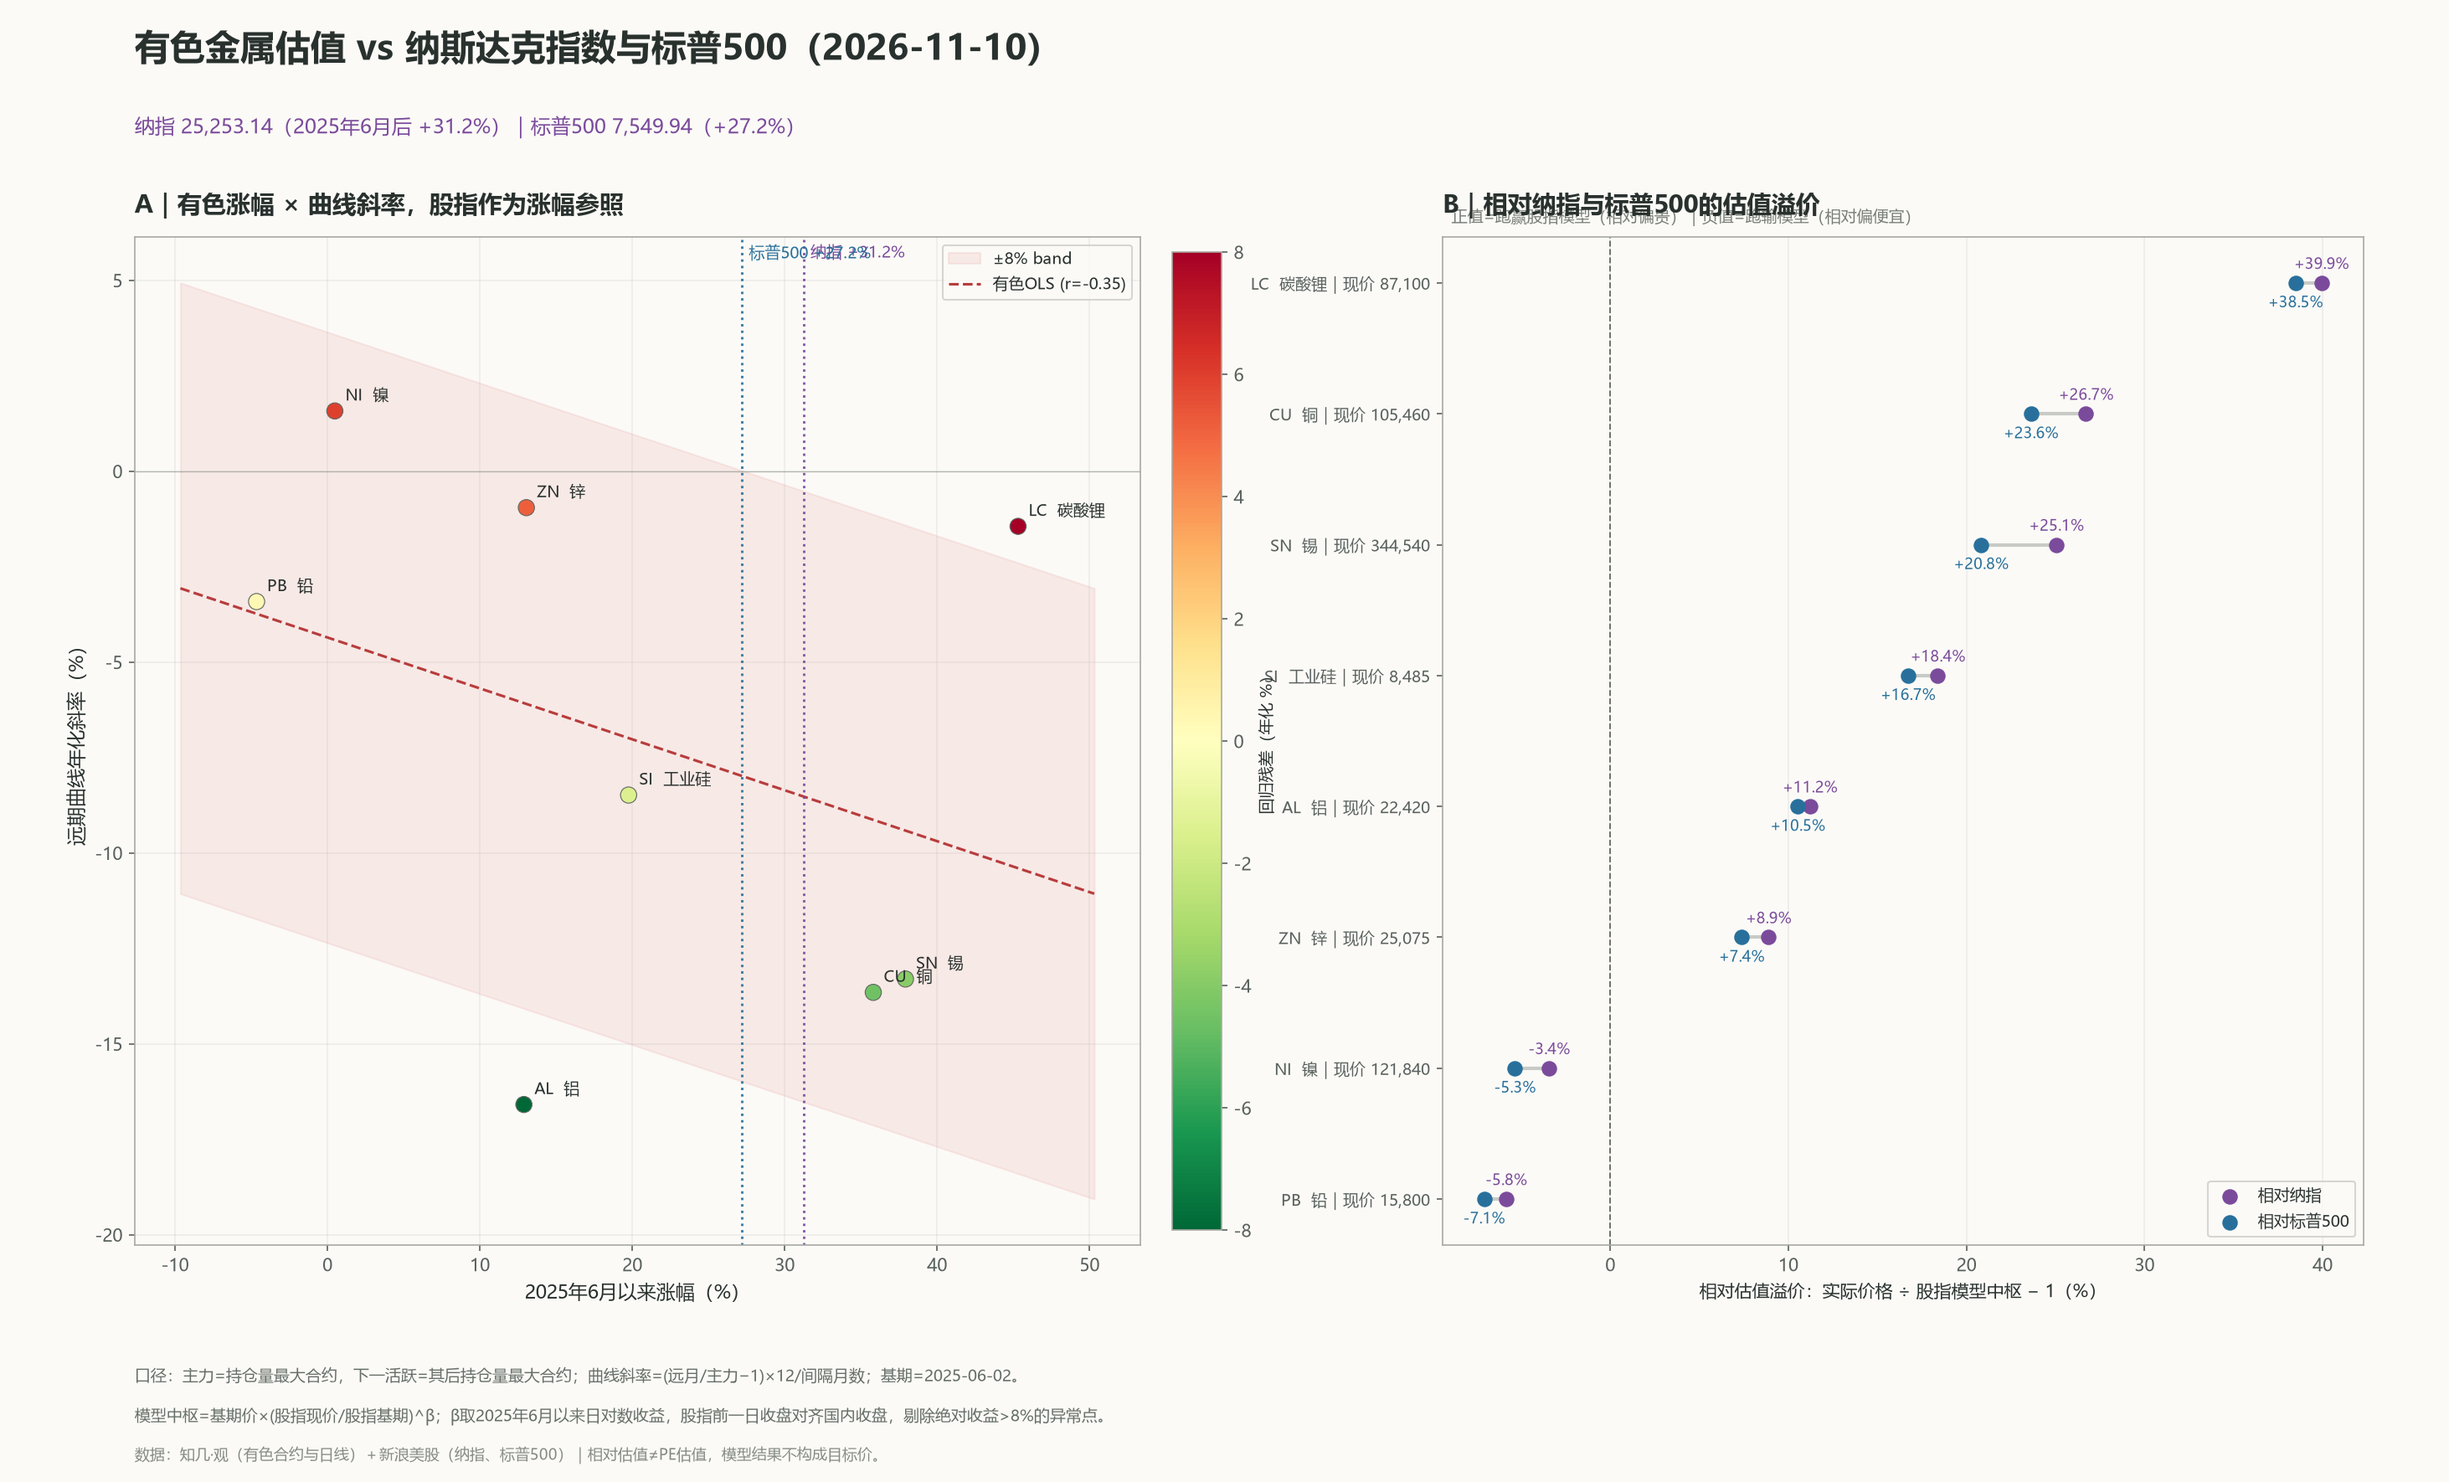
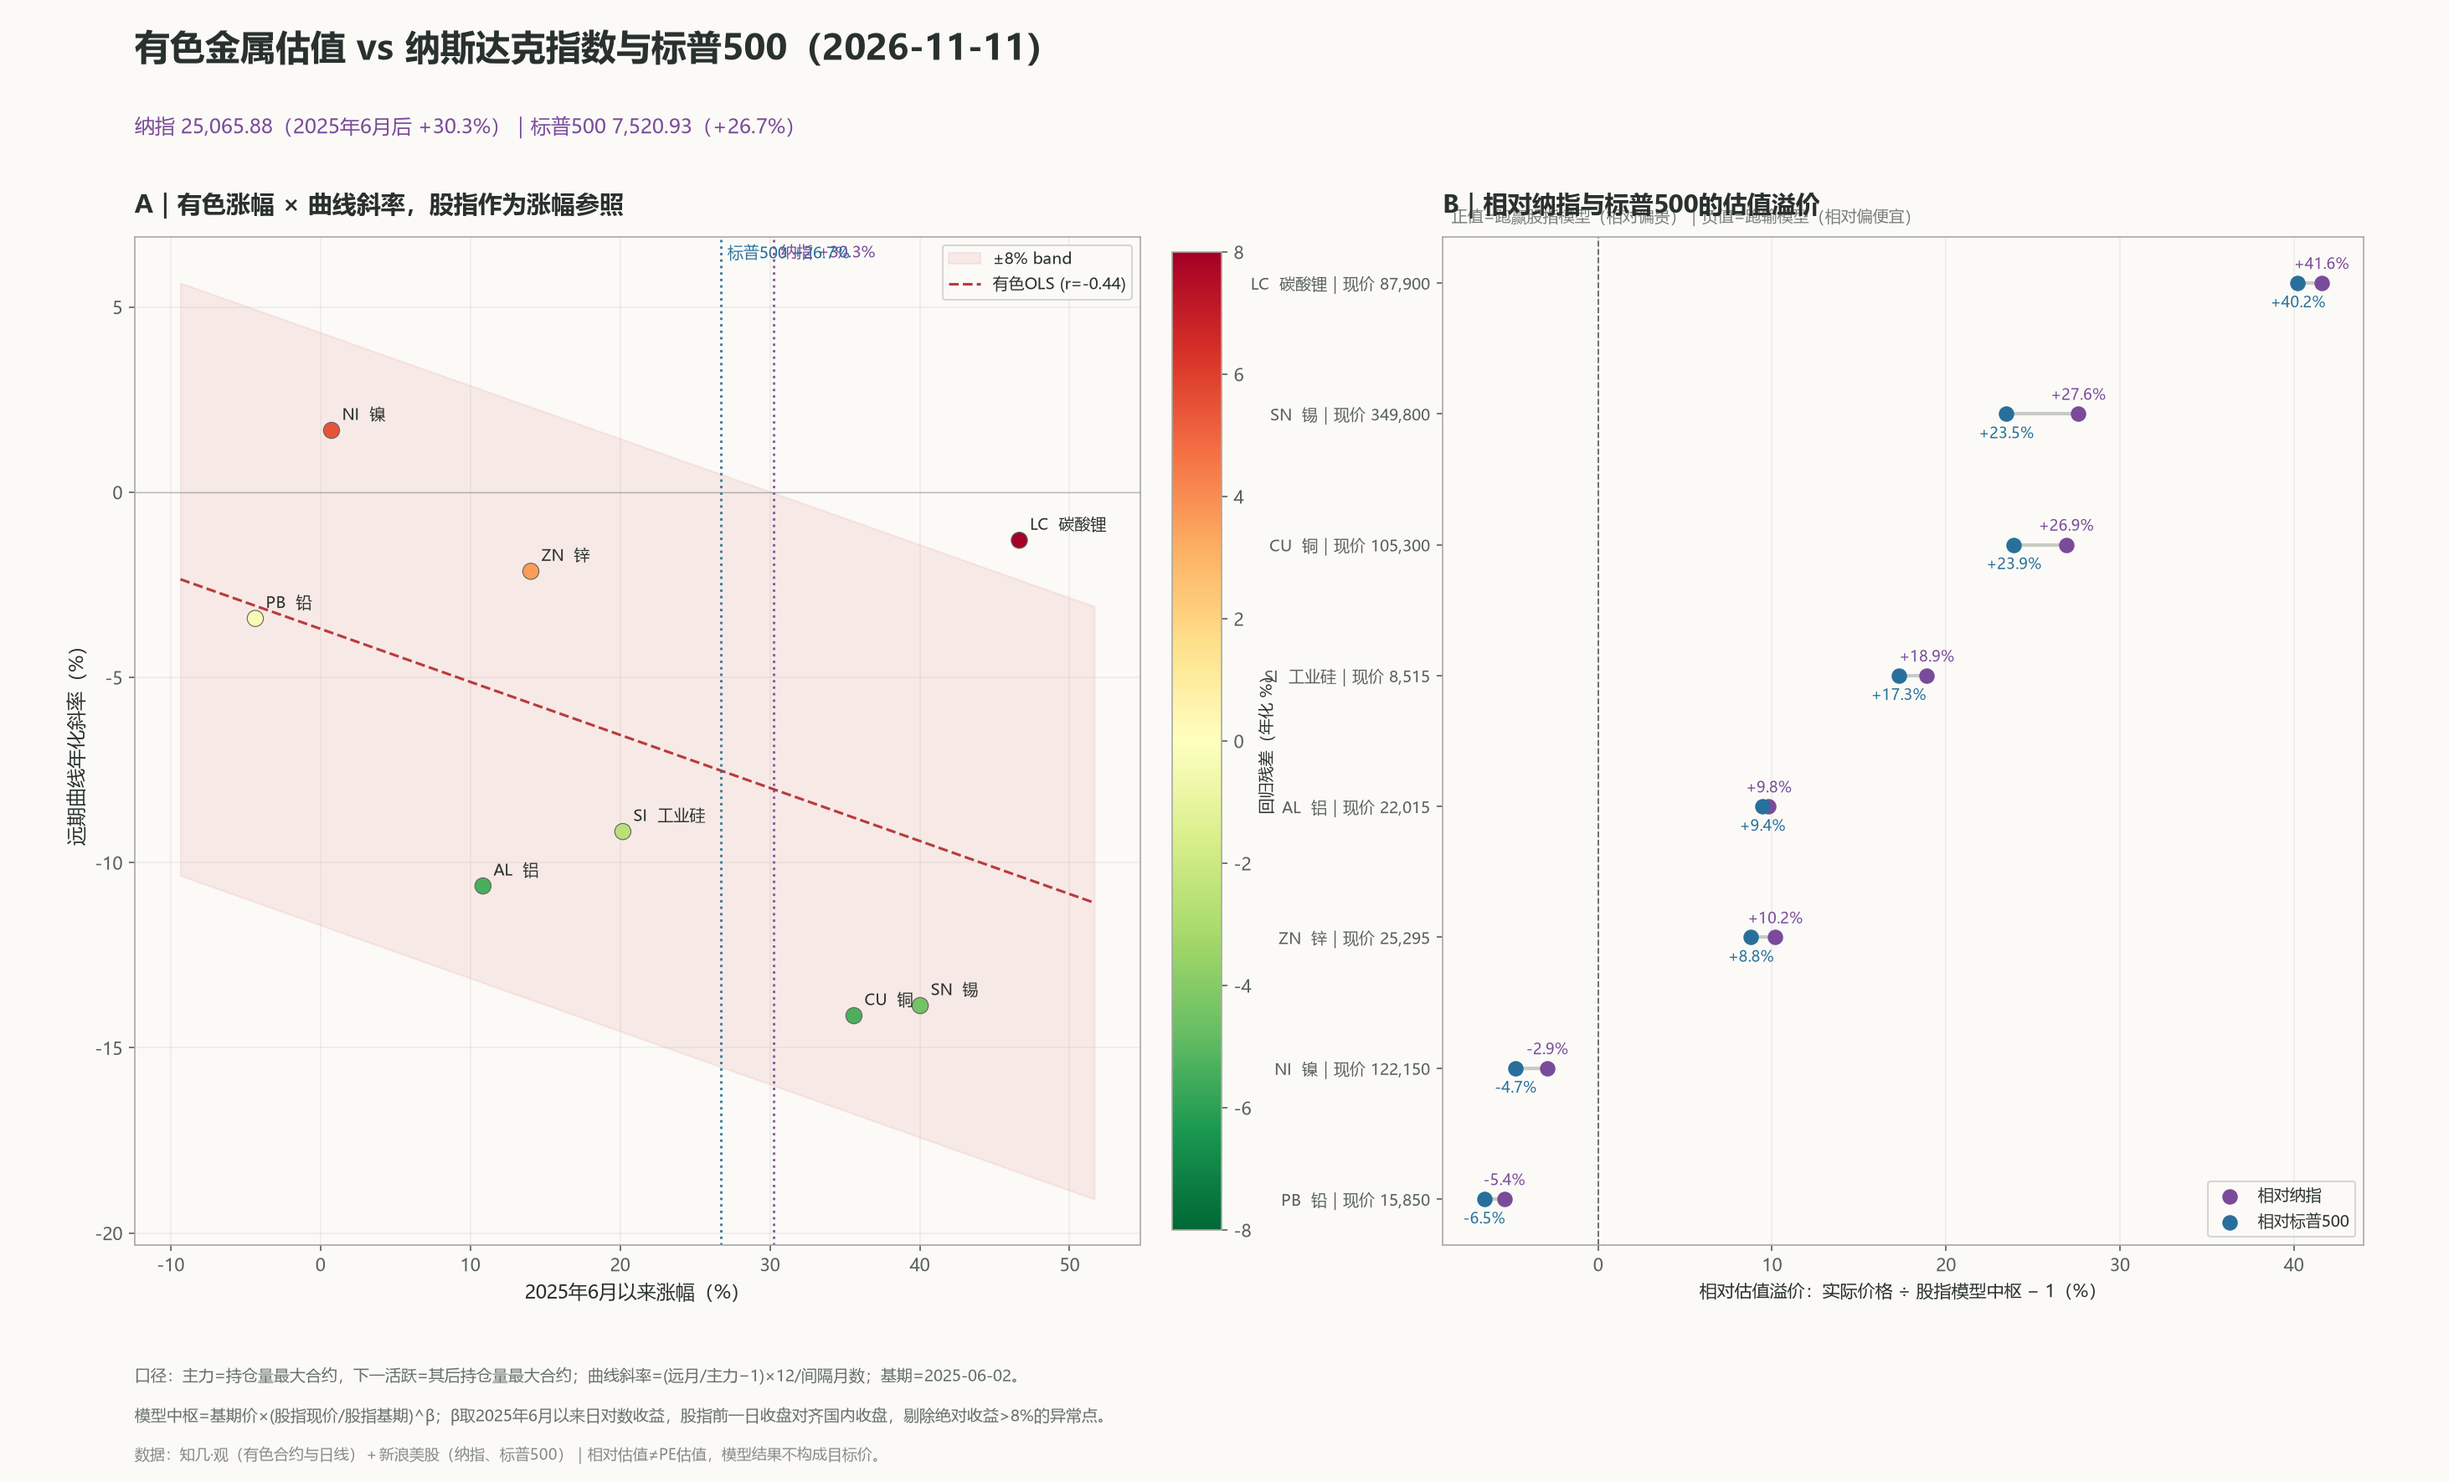
Update metals equity valuation 2026-11-11

diff --git a/valuation/index.html b/valuation/index.html
@@ -1,3 +1,3 @@
 <!doctype html><html lang='zh-CN'><head><meta charset='utf-8'><meta name='viewport' content='width=device-width,initial-scale=1'><title>有色估值 vs 纳指与标普500</title><style>
 body{margin:0;background:#f5f1e8;color:#26332e;font:14px/1.65 -apple-system,BlinkMacSystemFont,'Segoe UI','Microsoft YaHei',sans-serif}main{max-width:1180px;margin:auto;padding:42px 22px}h1{font-family:Georgia,'Songti SC',serif;font-size:34px;margin:0 0 10px}.sub{color:#7b4b9b;font-size:16px}.note{color:#746f65;font-size:12px;margin:12px 0 24px}img{display:block;width:100%;height:auto;background:#fbfaf7;border:1px solid #d8d1c3}.actions{margin:18px 0 28px;display:flex;gap:16px}a{color:#a34f39}table{width:100%;border-collapse:collapse;background:#fbf9f3;font-size:12px}th,td{padding:9px 8px;border-bottom:1px solid #ddd5c7;text-align:right;white-space:nowrap}th:first-child,td:first-child{text-align:left}.pos{color:#a34f39}.neg{color:#28709b}footer{font-size:11px;color:#746f65;margin-top:24px}@media(max-width:700px){.table{overflow-x:auto}h1{font-size:27px}}
-</style></head><body><main><h1>有色金属估值 vs 纳斯达克指数与标普500</h1><div class='sub'>纳指 25,253.14（2025年6月后 +31.2%）｜标普500 7,549.94（+27.2%）</div><div class='note'>基期：国内 2025-06-03、美股 2025-06-02｜最新：2026-11-10｜相对估值不是 PE，模型结果不构成目标价。</div><img src='chart.png' alt='有色金属与纳斯达克指数和标普500估值对照图'><div class='actions'><a href='data.csv' download>下载完整 CSV ↓</a><a href='../'>返回书桌 ↗</a></div><div class='table'><table><thead><tr><th>品种</th><th>当前主力</th><th>6月后涨幅</th><th>相对纳指</th><th>相对标普</th><th>远月年化斜率</th></tr></thead><tbody><tr><td><b>CU</b> 铜</td><td>105,460</td><td>+35.8%</td><td class="pos">+26.7%</td><td class="pos">+23.6%</td><td>-13.7%</td></tr><tr><td><b>AL</b> 铝</td><td>22,420</td><td>+12.9%</td><td class="pos">+11.2%</td><td class="pos">+10.5%</td><td>-16.6%</td></tr><tr><td><b>ZN</b> 锌</td><td>25,075</td><td>+13.1%</td><td class="pos">+8.9%</td><td class="pos">+7.4%</td><td>-1.0%</td></tr><tr><td><b>PB</b> 铅</td><td>15,800</td><td>-4.6%</td><td class="neg">-5.8%</td><td class="neg">-7.1%</td><td>-3.4%</td></tr><tr><td><b>NI</b> 镍</td><td>121,840</td><td>+0.5%</td><td class="neg">-3.4%</td><td class="neg">-5.3%</td><td>+1.6%</td></tr><tr><td><b>SN</b> 锡</td><td>344,540</td><td>+37.9%</td><td class="pos">+25.1%</td><td class="pos">+20.8%</td><td>-13.3%</td></tr><tr><td><b>LC</b> 碳酸锂</td><td>87,100</td><td>+45.3%</td><td class="pos">+39.9%</td><td class="pos">+38.5%</td><td>-1.4%</td></tr><tr><td><b>SI</b> 工业硅</td><td>8,485</td><td>+19.8%</td><td class="pos">+18.4%</td><td class="pos">+16.7%</td><td>-8.5%</td></tr></tbody></table></div><footer>数据：知几·观 + 新浪美股。模型中枢=基期价×(股指现价/基期)^β；β自2025年6月起，股指前一日收盘对齐国内收盘，剔除绝对收益>8%的异常点。每日自动更新。</footer></main></body></html>
+</style></head><body><main><h1>有色金属估值 vs 纳斯达克指数与标普500</h1><div class='sub'>纳指 25,065.88（2025年6月后 +30.3%）｜标普500 7,520.93（+26.7%）</div><div class='note'>基期：国内 2025-06-03、美股 2025-06-02｜最新：2026-11-11｜相对估值不是 PE，模型结果不构成目标价。</div><img src='chart.png' alt='有色金属与纳斯达克指数和标普500估值对照图'><div class='actions'><a href='data.csv' download>下载完整 CSV ↓</a><a href='../'>返回书桌 ↗</a></div><div class='table'><table><thead><tr><th>品种</th><th>当前主力</th><th>6月后涨幅</th><th>相对纳指</th><th>相对标普</th><th>远月年化斜率</th></tr></thead><tbody><tr><td><b>CU</b> 铜</td><td>105,300</td><td>+35.6%</td><td class="pos">+26.9%</td><td class="pos">+23.9%</td><td>-14.1%</td></tr><tr><td><b>AL</b> 铝</td><td>22,015</td><td>+10.9%</td><td class="pos">+9.8%</td><td class="pos">+9.4%</td><td>-10.6%</td></tr><tr><td><b>ZN</b> 锌</td><td>25,295</td><td>+14.0%</td><td class="pos">+10.2%</td><td class="pos">+8.8%</td><td>-2.1%</td></tr><tr><td><b>PB</b> 铅</td><td>15,850</td><td>-4.3%</td><td class="neg">-5.4%</td><td class="neg">-6.5%</td><td>-3.4%</td></tr><tr><td><b>NI</b> 镍</td><td>122,150</td><td>+0.7%</td><td class="neg">-2.9%</td><td class="neg">-4.7%</td><td>+1.7%</td></tr><tr><td><b>SN</b> 锡</td><td>349,800</td><td>+40.0%</td><td class="pos">+27.6%</td><td class="pos">+23.5%</td><td>-13.9%</td></tr><tr><td><b>LC</b> 碳酸锂</td><td>87,900</td><td>+46.6%</td><td class="pos">+41.6%</td><td class="pos">+40.2%</td><td>-1.3%</td></tr><tr><td><b>SI</b> 工业硅</td><td>8,515</td><td>+20.2%</td><td class="pos">+18.9%</td><td class="pos">+17.3%</td><td>-9.2%</td></tr></tbody></table></div><footer>数据：知几·观 + 新浪美股。模型中枢=基期价×(股指现价/基期)^β；β自2025年6月起，股指前一日收盘对齐国内收盘，剔除绝对收益>8%的异常点。每日自动更新。</footer></main></body></html>
